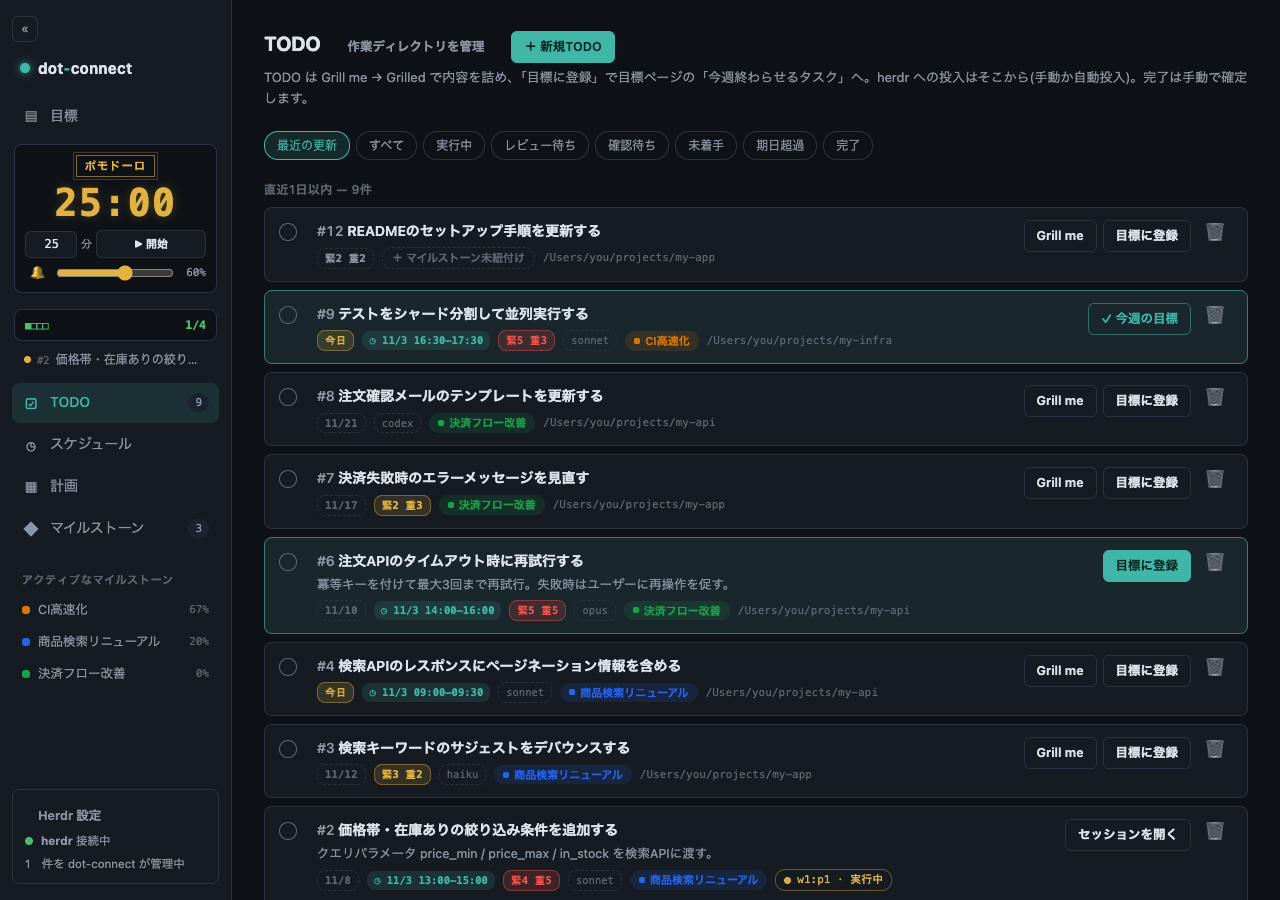
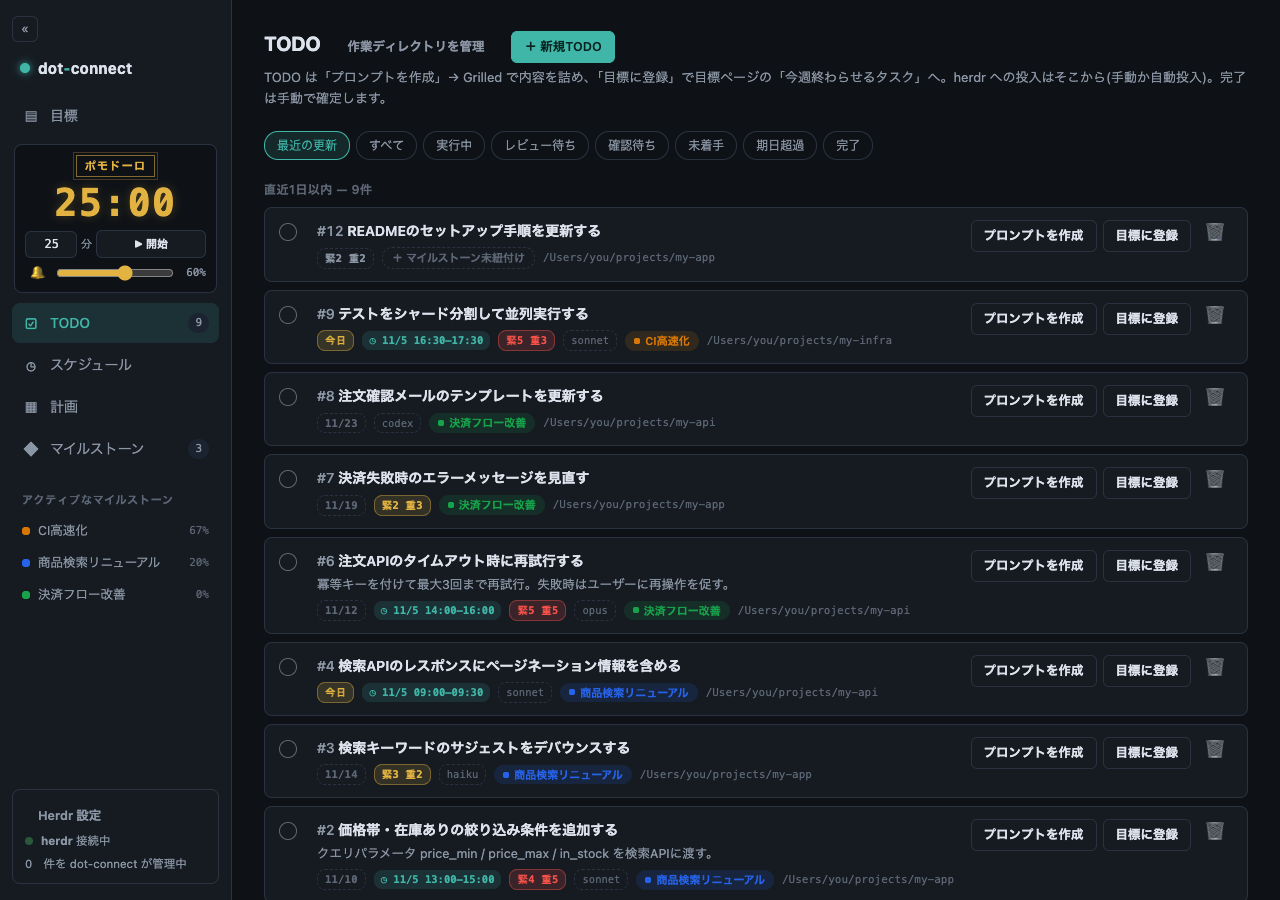
feat: rename the Grill me button to プロンプトを作成
Only the label (and the prose that names it) changes; the action, the Grilled
button and the grill* field names stay as they are. README screenshots of the
TODO list and detail dialog refreshed.

diff --git a/public/index.html b/public/index.html
@@ -346,7 +346,7 @@ h1 { font-size: 20px; font-weight: 700; }
 /* Grilled 済み(内容が詰まっている)TODO: 枠と背景をアクセント色で薄く塗って、
    「目標に登録」できる行だと分かるようにする。 */
 .todo.is-grilled { border-color: color-mix(in srgb, var(--accent) 55%, var(--border)); background: color-mix(in srgb, var(--accent) 7%, var(--bg-raise)); }
-/* .btn と同じ寸法(文字サイズ・余白・枠)にして、隣の「Grill me」と高さと位置が揃うようにする。 */
+/* .btn と同じ寸法(文字サイズ・余白・枠)にして、隣の「プロンプトを作成」と高さと位置が揃うようにする。 */
 .todo-week-tag { display: inline-flex; align-items: center; font: inherit; font-size: 12.5px; font-weight: 600; color: var(--accent); border: 1px solid color-mix(in srgb, var(--accent) 50%, transparent); border-radius: 6px; padding: 5px 12px; white-space: nowrap; }
 .queue-dispatch { padding: 2px 9px; font-size: 12px; }
 .todo-check {
@@ -1036,7 +1036,7 @@ h1 { font-size: 20px; font-weight: 700; }
       </div>
       <div class="wip wip-inline" role="meter" aria-label="WIP" aria-valuemin="0" hidden><span class="wip-cells"></span><span class="wip-label"></span></div>
       <div class="wip-todos wip-todos-inline" aria-label="WIP中のTODO" hidden></div>
-      <p class="page-sub">TODO は Grill me → Grilled で内容を詰め、「目標に登録」で目標ページの「今週終わらせるタスク」へ。herdr への投入はそこから(手動か自動投入)。完了は手動で確定します。</p>
+      <p class="page-sub">TODO は「プロンプトを作成」→ Grilled で内容を詰め、「目標に登録」で目標ページの「今週終わらせるタスク」へ。herdr への投入はそこから(手動か自動投入)。完了は手動で確定します。</p>
       <div class="inline-form stacked" id="new-todo-form" hidden></div>
       <div class="filters" role="group" aria-label="フィルタ">
         <button class="chip" data-filter="recent" aria-pressed="true">最近の更新</button>
@@ -1140,7 +1140,7 @@ h1 { font-size: 20px; font-weight: 700; }
         <div class="queue-auto" id="queue-auto"></div>
         <div class="queue-list" id="queue-list"></div>
         <div class="queue-add" id="queue-add"></div>
-        <p class="field-hint">「目標を生成」で拾った TODO がここに並びます(期日の無い TODO には週末の期日が付きます)。↑↓ で実行順、期日欄で期日を変えられます。自動投入を有効にすると、空き枠(WIP可能数 − バッファ)がある間、上から順に herdr への投入を<strong>確認してから</strong>行います。候補になるのは Grill me → Grilled を通し、作業ディレクトリのある TODO だけです。各行の「herdr」「自分」の印は TODO 側で決まったもの(Grilled 済みを登録すると herdr、Grill を通さず登録すると自分)で、「自分」の行は一覧に並んだまま投入の対象から外れます。</p>
+        <p class="field-hint">「目標を生成」で拾った TODO がここに並びます(期日の無い TODO には週末の期日が付きます)。↑↓ で実行順、期日欄で期日を変えられます。自動投入を有効にすると、空き枠(WIP可能数 − バッファ)がある間、上から順に herdr への投入を<strong>確認してから</strong>行います。候補になるのは「プロンプトを作成」→ Grilled を通し、作業ディレクトリのある TODO だけです。各行の「herdr」「自分」の印は TODO 側で決まったもの(Grilled 済みを登録すると herdr、Grill を通さず登録すると自分)で、「自分」の行は一覧に並んだまま投入の対象から外れます。</p>
       </section>
       <div id="report-analysis"></div>
     </section>

diff --git a/public/js/lib/grill.js b/public/js/lib/grill.js
@@ -19,7 +19,7 @@ export function grillButton(todo) {
   if (isGrilled(todo)) return null
   return {
     action: 'grill',
-    label: 'Grill me',
+    label: 'プロンプトを作成',
     title: 'herdr セッションで質問しながら詳細を詰めます',
   }
 }
@@ -50,7 +50,7 @@ export function weekGoalButton(todo, currentWeekIds = []) {
       self: true,
       action: 'add-to-week',
       label: '目標に登録',
-      title: 'herdr には投入せず、自分でやるタスクとして目標の「今週終わらせるタスク」に追加します(herdr に流すなら先に Grill me)。期日が無ければ週末が付きます',
+      title: 'herdr には投入せず、自分でやるタスクとして目標の「今週終わらせるタスク」に追加します(herdr に流すなら先に「プロンプトを作成」)。期日が無ければ週末が付きます',
     }
   }
   return {

diff --git a/public/js/todos.js b/public/js/todos.js
@@ -149,9 +149,9 @@ function todoActions(todo) {
         : ''
     return `${openBtn}${completeBtn}${del}`
   }
-  // herdr への投入はここからはしない: TODO は Grill me → Grilled で内容を
+  // herdr への投入はここからはしない: TODO は「プロンプトを作成」→ Grilled で内容を
   // 詰め、「目標に登録」で今週終わらせるタスク(目標ページ)に入れ、そこから
-  // 投入する(手動の「投入」か自動投入)。Grilled 前は「Grill me」と、herdr に
+  // 投入する(手動の「投入」か自動投入)。Grilled 前は「プロンプトを作成」と、herdr に
   // 流さない前提の控えめな「目標に登録」。Grilled 後は「目標に登録」(登録済み
   // なら「今週の目標」)だけが出る。
   const goal = weekGoalButton(todo, (getState().weekQueue?.todos ?? []).map((t) => t.id))

diff --git a/public/js/lib/weekQueue.js b/public/js/lib/weekQueue.js
@@ -51,7 +51,7 @@ export function dispatchReadiness(todo) {
   if (todo.queueDispatch === false) return 'herdr に投入しない(自分でやる)'
   if (todo.grillDir) return 'Grill 中(Grilled を押して確定してから)'
   if (todo.sessionState) return '実行中'
-  if (!todo.grilledAt) return 'Grill 未実施(Grill me → Grilled が条件)'
+  if (!todo.grilledAt) return 'Grill 未実施(「プロンプトを作成」→ Grilled が条件)'
   if (!todo.workspacePath) return '作業ディレクトリ未設定'
   return null
 }

diff --git a/tests/frontend/grill.test.js b/tests/frontend/grill.test.js
@@ -20,7 +20,7 @@ describe('grillButton', () => {
   test('no session, no grillDir -> Grill', () => {
     const b = grillButton({ status: 'open', grillDir: null, sessionState: null })
     expect(b.action).toBe('grill')
-    expect(b.label).toBe('Grill me')
+    expect(b.label).toBe('プロンプトを作成')
   })
   test('a Grilled todo gets no Grill button (the row offers 目標に登録 instead)', () => {
     expect(grillButton({ status: 'open', grillDir: null, sessionState: null, grilledAt: '2026-11-01 00:00:00' })).toBeNull()

diff --git a/tests/frontend/weekQueue.test.js b/tests/frontend/weekQueue.test.js
@@ -42,7 +42,7 @@ describe('autoRunPlan', () => {
     const plan = autoRunPlan(queue, queue, settings)
     expect(plan.candidate.id).toBe(2)
     expect(plan.canPropose).toBe(true)
-    expect(plan.waiting.map((w) => [w.todo.id, w.reason])).toEqual([[1, 'Grill 未実施(Grill me → Grilled が条件)']])
+    expect(plan.waiting.map((w) => [w.todo.id, w.reason])).toEqual([[1, 'Grill 未実施(「プロンプトを作成」→ Grilled が条件)']])
     expect(plan.done).toBe(1)
   })
 
